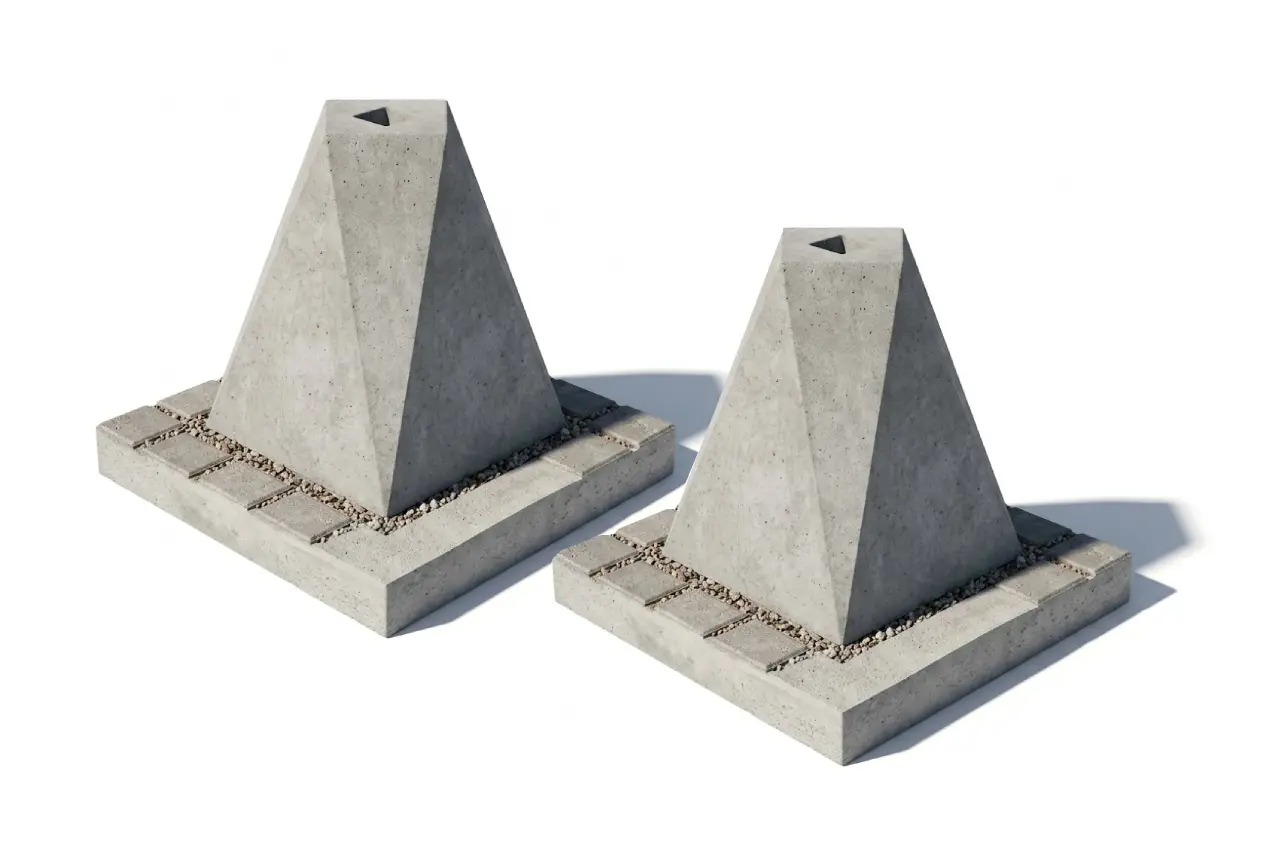
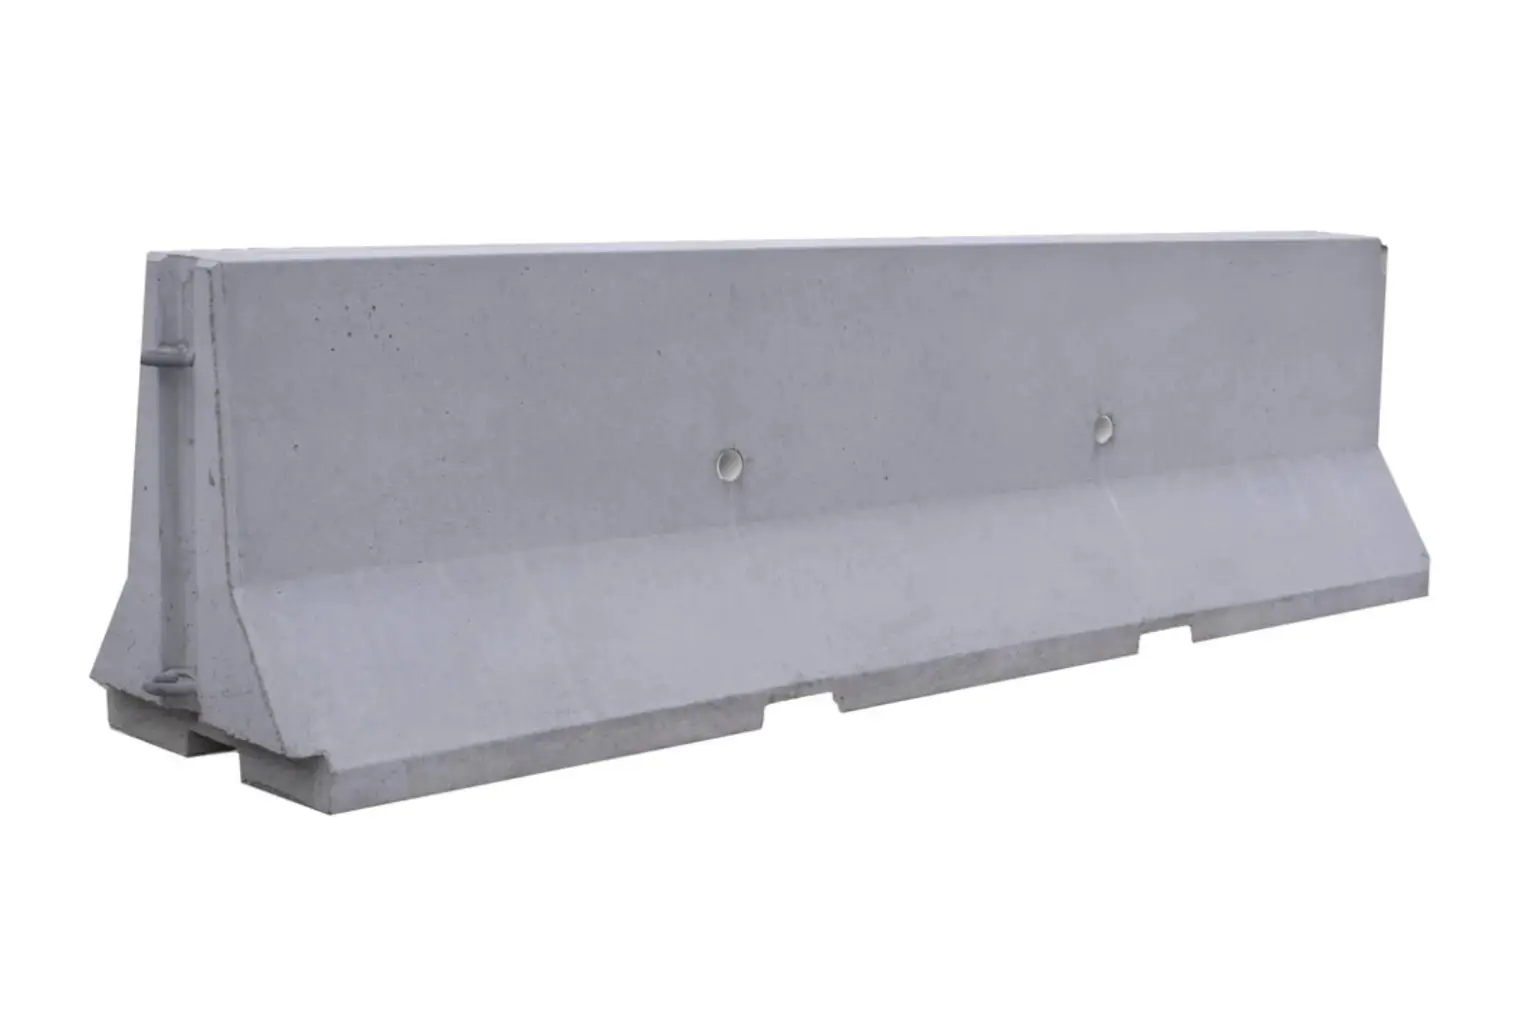
النسخة انهائية

diff --git a/assets/style.css b/assets/style.css
@@ -91,6 +91,8 @@ section[id]{scroll-margin-top:90px}
 .product-card img{width:100%;height:auto;object-fit:cover;border-radius:12px;margin-bottom:4px}
 .product-card p{margin:0;color:#4b5563}
 .product-benefit{font-weight:700;color:var(--accent)}
+.product-card .btn{width:90%;justify-content:center;align-self:center;margin-top:auto;text-align:center;background:var(--accent);color:#fff;border:1px solid var(--accent);box-shadow:0 6px 14px rgba(42,111,182,.1)}
+.product-card .btn:hover{background:#ff7f00;border-color:#ff7f00;color:#fff;box-shadow:0 10px 20px rgba(255,127,0,.28)}
 .product-modal{position:fixed;inset:0;z-index:120;background:rgba(2,8,23,.78);display:flex;align-items:center;justify-content:center;padding:18px;opacity:0;pointer-events:none;transition:opacity .25s ease}
 .product-modal.open{opacity:1;pointer-events:auto}
 .product-modal__dialog{position:relative;width:min(1160px,100%);max-height:92vh;overflow:auto;background:#fff;border-radius:28px;box-shadow:0 24px 70px rgba(2,8,23,.28);display:flex;flex-direction:column;gap:0}
@@ -291,8 +293,9 @@ body.modal-open{overflow:hidden}
 .info-modal__content{color:#4b6175;line-height:1.95}.info-modal__content p{margin:0 0 14px}.info-modal__content h3{margin:24px 0 8px;color:var(--navy);font-size:1.05rem}.info-modal__content ul{margin:0;padding-right:20px}.info-modal__content li{margin-bottom:7px}
 .info-modal__cta{margin-top:12px}
 .floating-ctas{position:fixed;left:16px;bottom:20px;display:flex;flex-direction:column;gap:10px;z-index:80}
-.fab{display:inline-flex;width:56px;height:56px;border-radius:16px;align-items:center;justify-content:center;text-decoration:none;color:#fff;background:var(--navy);box-shadow:0 12px 24px rgba(10,20,34,.2);animation:pulse-float 2.2s ease-in-out infinite}
+.fab{position:relative;display:inline-flex;width:56px;height:56px;border-radius:16px;align-items:center;justify-content:center;text-decoration:none;color:#fff;background:var(--navy);box-shadow:0 0 0 0 rgba(42,111,182,.55),0 12px 24px rgba(10,20,34,.2);animation:pulse-float 2.2s ease-in-out infinite,contact-glow 2.4s ease-in-out infinite}
 .fab.wa{background:#25D366}
+.fab.wa{animation-name:pulse-float,whatsapp-glow}
 .fab svg{width:24px;height:24px}
 .accordion{display:grid;gap:10px}
 .accordion .accordion-item{width:100%;display:flex;align-items:center;justify-content:space-between;text-align:right;padding:14px 16px;background:#fff;border:1px solid var(--border);border-radius:14px;color:var(--navy);font-weight:700;cursor:pointer}
@@ -381,4 +384,14 @@ body.modal-open{overflow:hidden}
 #faq, 
 #faq * {
   font-family: 'Cairo', sans-serif;
+}
+
+
+@keyframes contact-glow{
+  0%,100%{box-shadow:0 0 0 0 rgba(42,111,182,.5),0 12px 24px rgba(10,20,34,.2)}
+  50%{box-shadow:0 0 0 9px rgba(42,111,182,0),0 12px 24px rgba(10,20,34,.2)}
+}
+@keyframes whatsapp-glow{
+  0%,100%{box-shadow:0 0 0 0 rgba(37,211,102,.55),0 12px 24px rgba(10,20,34,.2)}
+  50%{box-shadow:0 0 0 9px rgba(37,211,102,0),0 12px 24px rgba(10,20,34,.2)}
 }

diff --git a/assets/main.js b/assets/main.js
@@ -232,7 +232,7 @@ document.addEventListener('DOMContentLoaded', function(){
     card.setAttribute('tabindex', '0');
     card.addEventListener('click', (event)=>{
       if(event.target.closest('a')){
-        event.preventDefault();
+        return;
       }
       openProductModal(card.id);
     });
